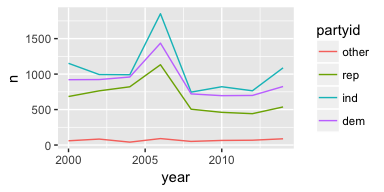
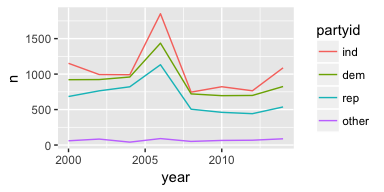
lecture add ons

diff --git a/lecture 12/lecture_12_exercise.md b/lecture 12/lecture_12_exercise.md
@@ -263,17 +263,34 @@ set.seed(10)
 Convert `draw` to a factor. What are the levels? How many are there? How many of each category was drawn?
 
 ``` r
-draw_fct <- as.factor(draw)
+draw_fct <- factor(draw)
 levels(draw_fct)
 ```
 
     ## [1] "a" "b" "c"
 
 ``` r
-nlevels((draw_fct))
+levels(draw_fct) %>% is.factor()
+```
+
+    ## [1] FALSE
+
+``` r
+nlevels(draw_fct)
 ```
 
     ## [1] 3
+
+``` r
+fct_count(draw_fct)
+```
+
+    ## # A tibble: 3 x 2
+    ##   f         n
+    ##   <fct> <int>
+    ## 1 a         5
+    ## 2 b         4
+    ## 3 c         1
 
 Concatenating Factors
 ---------------------
@@ -315,7 +332,7 @@ rbind(lotr1, lotr2)
     ## 6     The Return Of The King    Man    268 2459
 
 ``` r
-bind_rows(lotr1, lotr2)
+bind_rows(lotr1, lotr2) %>% str()
 ```
 
     ## Warning in bind_rows_(x, .id): Unequal factor levels: coercing to character
@@ -326,13 +343,17 @@ bind_rows(lotr1, lotr2)
     ## Warning in bind_rows_(x, .id): binding character and factor vector,
     ## coercing into character vector
 
-    ##                         Film   Race Female Male
-    ## 1 The Fellowship Of The Ring    Elf   1229  971
-    ## 2 The Fellowship Of The Ring Hobbit     14 3644
-    ## 3 The Fellowship Of The Ring    Man      0 1995
-    ## 4     The Return Of The King    Elf    183  510
-    ## 5     The Return Of The King Hobbit      2 2673
-    ## 6     The Return Of The King    Man    268 2459
+    ## 'data.frame':    6 obs. of  4 variables:
+    ##  $ Film  : chr  "The Fellowship Of The Ring" "The Fellowship Of The Ring" "The Fellowship Of The Ring" "The Return Of The King" ...
+    ##  $ Race  : Factor w/ 3 levels "Elf","Hobbit",..: 1 2 3 1 2 3
+    ##  $ Female: int  1229 14 0 183 2 268
+    ##  $ Male  : int  971 3644 1995 510 2673 2459
+
+``` r
+as.character(5)
+```
+
+    ## [1] "5"
 
 Unused Levels
 -------------
@@ -345,6 +366,91 @@ nlevels(gap_gs$country)
 ```
 
     ## [1] 142
+
+``` r
+levels(gap_gs$country)
+```
+
+    ##   [1] "Afghanistan"              "Albania"                 
+    ##   [3] "Algeria"                  "Angola"                  
+    ##   [5] "Argentina"                "Australia"               
+    ##   [7] "Austria"                  "Bahrain"                 
+    ##   [9] "Bangladesh"               "Belgium"                 
+    ##  [11] "Benin"                    "Bolivia"                 
+    ##  [13] "Bosnia and Herzegovina"   "Botswana"                
+    ##  [15] "Brazil"                   "Bulgaria"                
+    ##  [17] "Burkina Faso"             "Burundi"                 
+    ##  [19] "Cambodia"                 "Cameroon"                
+    ##  [21] "Canada"                   "Central African Republic"
+    ##  [23] "Chad"                     "Chile"                   
+    ##  [25] "China"                    "Colombia"                
+    ##  [27] "Comoros"                  "Congo, Dem. Rep."        
+    ##  [29] "Congo, Rep."              "Costa Rica"              
+    ##  [31] "Cote d'Ivoire"            "Croatia"                 
+    ##  [33] "Cuba"                     "Czech Republic"          
+    ##  [35] "Denmark"                  "Djibouti"                
+    ##  [37] "Dominican Republic"       "Ecuador"                 
+    ##  [39] "Egypt"                    "El Salvador"             
+    ##  [41] "Equatorial Guinea"        "Eritrea"                 
+    ##  [43] "Ethiopia"                 "Finland"                 
+    ##  [45] "France"                   "Gabon"                   
+    ##  [47] "Gambia"                   "Germany"                 
+    ##  [49] "Ghana"                    "Greece"                  
+    ##  [51] "Guatemala"                "Guinea"                  
+    ##  [53] "Guinea-Bissau"            "Haiti"                   
+    ##  [55] "Honduras"                 "Hong Kong, China"        
+    ##  [57] "Hungary"                  "Iceland"                 
+    ##  [59] "India"                    "Indonesia"               
+    ##  [61] "Iran"                     "Iraq"                    
+    ##  [63] "Ireland"                  "Israel"                  
+    ##  [65] "Italy"                    "Jamaica"                 
+    ##  [67] "Japan"                    "Jordan"                  
+    ##  [69] "Kenya"                    "Korea, Dem. Rep."        
+    ##  [71] "Korea, Rep."              "Kuwait"                  
+    ##  [73] "Lebanon"                  "Lesotho"                 
+    ##  [75] "Liberia"                  "Libya"                   
+    ##  [77] "Madagascar"               "Malawi"                  
+    ##  [79] "Malaysia"                 "Mali"                    
+    ##  [81] "Mauritania"               "Mauritius"               
+    ##  [83] "Mexico"                   "Mongolia"                
+    ##  [85] "Montenegro"               "Morocco"                 
+    ##  [87] "Mozambique"               "Myanmar"                 
+    ##  [89] "Namibia"                  "Nepal"                   
+    ##  [91] "Netherlands"              "New Zealand"             
+    ##  [93] "Nicaragua"                "Niger"                   
+    ##  [95] "Nigeria"                  "Norway"                  
+    ##  [97] "Oman"                     "Pakistan"                
+    ##  [99] "Panama"                   "Paraguay"                
+    ## [101] "Peru"                     "Philippines"             
+    ## [103] "Poland"                   "Portugal"                
+    ## [105] "Puerto Rico"              "Reunion"                 
+    ## [107] "Romania"                  "Rwanda"                  
+    ## [109] "Sao Tome and Principe"    "Saudi Arabia"            
+    ## [111] "Senegal"                  "Serbia"                  
+    ## [113] "Sierra Leone"             "Singapore"               
+    ## [115] "Slovak Republic"          "Slovenia"                
+    ## [117] "Somalia"                  "South Africa"            
+    ## [119] "Spain"                    "Sri Lanka"               
+    ## [121] "Sudan"                    "Swaziland"               
+    ## [123] "Sweden"                   "Switzerland"             
+    ## [125] "Syria"                    "Taiwan"                  
+    ## [127] "Tanzania"                 "Thailand"                
+    ## [129] "Togo"                     "Trinidad and Tobago"     
+    ## [131] "Tunisia"                  "Turkey"                  
+    ## [133] "Uganda"                   "United Kingdom"          
+    ## [135] "United States"            "Uruguay"                 
+    ## [137] "Venezuela"                "Vietnam"                 
+    ## [139] "West Bank and Gaza"       "Yemen, Rep."             
+    ## [141] "Zambia"                   "Zimbabwe"
+
+``` r
+as.character(gap_gs$country)
+```
+
+    ##  [1] "Germany" "Germany" "Germany" "Germany" "Germany" "Germany" "Germany"
+    ##  [8] "Germany" "Germany" "Germany" "Germany" "Germany" "Sweden"  "Sweden" 
+    ## [15] "Sweden"  "Sweden"  "Sweden"  "Sweden"  "Sweden"  "Sweden"  "Sweden" 
+    ## [22] "Sweden"  "Sweden"  "Sweden"
 
 Sometimes keeping the levels is good. Other times, not.
 
@@ -360,6 +466,7 @@ gap_small <- gapminder %>%
 Exercise: Make a bar chart of the number of times a continent has a country with population &lt; 250,000 in the `gapminder` data set. Try with and without `scale_x_discrete(drop=FALSE)`.
 
 ``` r
+# my solution
 (n_gap_small <- gap_small %>% 
   group_by(country) %>% 
   summarize(n = n()))
@@ -393,6 +500,22 @@ n_gap_small %>%
 
 ![](lecture_12_exercise_files/figure-markdown_github/unnamed-chunk-12-2.png)
 
+``` r
+# from the lecture:
+ggplot(gap_small, aes(continent)) +
+  geom_bar()
+```
+
+![](lecture_12_exercise_files/figure-markdown_github/unnamed-chunk-12-3.png)
+
+``` r
+ggplot(gap_small, aes(continent)) +
+  geom_bar() +
+  scale_x_discrete(drop = FALSE)
+```
+
+![](lecture_12_exercise_files/figure-markdown_github/unnamed-chunk-12-4.png)
+
 **Example of when it's bad**: If you ever use the `levels()` function.
 
 How to fix by dropping levels:
@@ -407,6 +530,7 @@ Exercise: get rid of the unused factor levels for country and continent in diffe
 -   Re-defining the variable as a factor
 
 ``` r
+# my solution
 gap_gs_drop <- droplevels(gap_gs)
 nlevels(gap_gs_drop$country)
 ```
@@ -432,6 +556,35 @@ gap_gs %>%
     ##  9 Germany Europe     1992    76.1 80597764    26505. Germany    
     ## 10 Germany Europe     1997    77.3 82011073    27789. Germany    
     ## # ... with 14 more rows
+
+``` r
+# from the lecture
+gap_small %>% 
+  droplevels() %>% # levels from $country and $continent are dropped
+  str()
+```
+
+    ## Classes 'tbl_df', 'tbl' and 'data.frame':    41 obs. of  6 variables:
+    ##  $ country  : Factor w/ 7 levels "Bahrain","Comoros",..: 1 1 1 1 1 2 2 2 2 3 ...
+    ##  $ continent: Factor w/ 3 levels "Africa","Asia",..: 2 2 2 2 2 1 1 1 1 1 ...
+    ##  $ year     : int  1952 1957 1962 1967 1972 1952 1957 1962 1967 1952 ...
+    ##  $ lifeExp  : num  50.9 53.8 56.9 59.9 63.3 ...
+    ##  $ pop      : int  120447 138655 171863 202182 230800 153936 170928 191689 217378 63149 ...
+    ##  $ gdpPercap: num  9867 11636 12753 14805 18269 ...
+
+``` r
+gap_small %>% 
+  mutate(continent = fct_drop(continent)) %>% # levels from $country aren't dropped, but are from $continent
+  str()
+```
+
+    ## Classes 'tbl_df', 'tbl' and 'data.frame':    41 obs. of  6 variables:
+    ##  $ country  : Factor w/ 142 levels "Afghanistan",..: 8 8 8 8 8 27 27 27 27 36 ...
+    ##  $ continent: Factor w/ 3 levels "Africa","Asia",..: 2 2 2 2 2 1 1 1 1 1 ...
+    ##  $ year     : int  1952 1957 1962 1967 1972 1952 1957 1962 1967 1952 ...
+    ##  $ lifeExp  : num  50.9 53.8 56.9 59.9 63.3 ...
+    ##  $ pop      : int  120447 138655 171863 202182 230800 153936 170928 191689 217378 63149 ...
+    ##  $ gdpPercap: num  9867 11636 12753 14805 18269 ...
 
 Ordering
 --------
@@ -503,8 +656,13 @@ ggplot(gap_asia_2007, aes(lifeExp, country)) + geom_point()
 Let's use `fct_reorder()` to reorder the countries of `gap_asia_2007` by life Expectancy, and produce the same plot:
 
 ``` r
-# fct_reorder(country, lifeExp, data = gap_asia_2007)
+gap_asia_2007 %>% 
+  mutate(country = fct_reorder(country, lifeExp)) %>% 
+  ggplot(aes(lifeExp, country)) +
+  geom_point()
 ```
+
+![](lecture_12_exercise_files/figure-markdown_github/unnamed-chunk-18-1.png)
 
 What about when life Expectancy is not unique? Example: life expectancy of each continent:
 
@@ -526,6 +684,15 @@ ggplot(gapminder, aes(continent, lifeExp)) +
 
 Exercise: Try making the above box plot and violin plots, ordered by median lifeExp. Try other functions to order by by modifying the `.fun` argument.
 
+``` r
+gapminder %>% 
+    mutate(continent = fct_reorder(continent, lifeExp)) %>% 
+    ggplot(aes(continent, lifeExp)) +
+    geom_boxplot()
+```
+
+![](lecture_12_exercise_files/figure-markdown_github/unnamed-chunk-20-1.png)
+
 What if we have two variables plus a non-positional categorical variable? Example: Life expectancy for some select countries. Want legend "ordered by life expectancy" -- but what does that mean?
 
 ``` r
@@ -545,6 +712,15 @@ Use `fct_reorder2(f, x, y)` to reorder factor `f`:
 -   Default is `.fun = last2`, which looks at x-y plot for each category; uses the y-value furthest to the right.
 
 Exercise: Reorder the above line graph so that the legend is in order of last life expectancy. Useful for black-and-white printing!
+
+``` r
+gap_select %>% 
+    mutate(country = fct_reorder2(country, year, lifeExp)) %>% 
+    ggplot(aes(year, lifeExp)) +
+    geom_line(aes(colour=country))
+```
+
+![](lecture_12_exercise_files/figure-markdown_github/unnamed-chunk-22-1.png)
 
 ### Ordering "because I said so"
 
@@ -700,6 +876,7 @@ gss_cat %>%
     dem = c("Not str democrat", "Strong democrat")
   )) %>% 
   count(year, partyid) %>% 
+   mutate(partyid = fct_reorder2(partyid, year, n)) %>%
   ggplot(aes(year, n)) +
   geom_line(aes(group=partyid, colour=partyid))
 ```
@@ -713,6 +890,18 @@ Goal here: some exposure to `lubridate`; know it exists.
 
 1.  Use different combinations of y, m, d to make a date time object.
 
-2.  Get `year`, `month`, `yday`, `wday`, `day`.
+``` r
+lubridate::ymd(170511)
+```
 
-3.  Add durations (exact time spans) with `ddays`, `dweeks`, ... and periods (human-interpretable time spans) with `days`, `weeks`, and especially `months`.
+    ## [1] "2017-05-11"
+
+``` r
+lubridate::ymd("2017-May-11")
+```
+
+    ## [1] "2017-05-11"
+
+1.  Get `year`, `month`, `yday`, `wday`, `day`.
+
+2.  Add durations (exact time spans) with `ddays`, `dweeks`, ... and periods (human-interpretable time spans) with `days`, `weeks`, and especially `months`.
